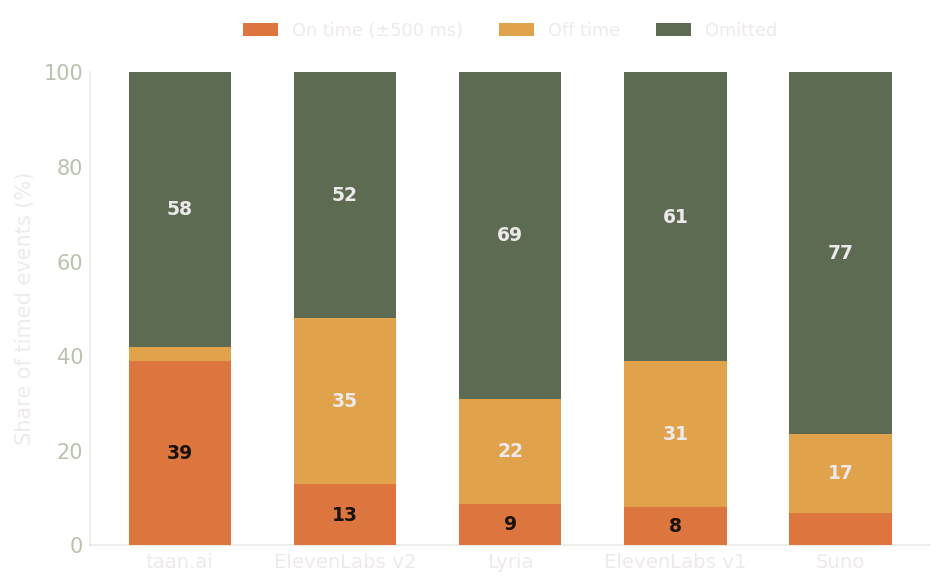
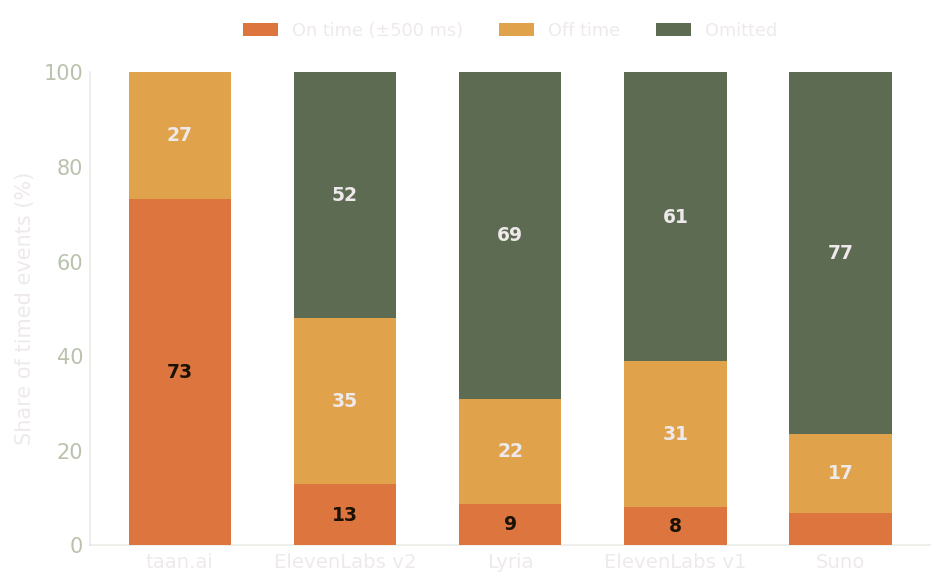
rebranding page and taan eval

Changed region(s): [[0.1228, 0.1229, 0.2455, 0.6451], [0.1841, 0.7372, 0.2148, 0.7986]]

diff --git a/index.html b/index.html
@@ -167,7 +167,7 @@
   has to hit its mark <strong>on time</strong>. taan.ai is built timing-first, so an instructed
   event lands within a fraction of a second of where you asked. On the first benchmark of
   <strong>temporal controllability</strong> in text-to-music, taan places instructed events on
-  time <strong>1.7× as often</strong> as the best commercial system we tested.</p>
+  time <strong>2.8× as often</strong> as the best commercial system we tested.</p>
   <div class="cta">
     <a class="btn btn-primary" href="#results">See how taan wins</a>
     <a class="btn btn-ghost" href="#how">How it is measured</a>
@@ -184,10 +184,10 @@
   composer cuts music to a scene. taan is engineered around that instant. We built the first
   benchmark that measures it, and taan tops it.</p>
   <div class="stats">
-    <div class="stat"><div class="num">46.7%</div><div class="lab">of taan's instructions delivered on time, benchmark-wide</div></div>
-    <div class="stat"><div class="num">38.8%</div><div class="lab">of taan's timed events land within ±500 ms of the cue</div></div>
-    <div class="stat"><div class="num">~76%</div><div class="lab">on taan's own rendered stems, its true timing compliance</div></div>
-    <div class="stat"><div class="num">19</div><div class="lab">points ahead of the next-best system</div></div>
+    <div class="stat"><div class="num">80.1%</div><div class="lab">of taan's instructions delivered on time, benchmark-wide</div></div>
+    <div class="stat"><div class="num">73.2%</div><div class="lab">of taan's timed events land within ±500 ms of the cue</div></div>
+    <div class="stat"><div class="num">0%</div><div class="lab">of instructed events taan omits; it renders every requested one</div></div>
+    <div class="stat"><div class="num">51</div><div class="lab">points ahead of the next-best system</div></div>
   </div>
 </div></section>
 
@@ -197,8 +197,8 @@
   <h2>Did the instructed event happen, <em>on time?</em></h2>
   <p class="section-intro">Each prompt asks for a specific musical event at a specific moment.
   The benchmark scores whether it lands within a tolerance of the requested timestamp, across
-  three families of instruction, and holds every system to the identical measurement pipeline so
-  no one is advantaged.</p>
+  three families of instruction, using the same detectors, gates, and tolerances for every
+  system.</p>
   <div class="pills">
     <span class="pill">Type 1 · single timed event</span>
     <span class="pill">Type 2 · timed sequence</span>
@@ -214,7 +214,7 @@
   <p class="section-intro">Across four widely used systems, timed events land within ±500 ms only
   a fraction of the time, and tempo is the only instruction they follow reliably. taan delivers
   the large majority of instructed events on time, and tops every commercial system on overall
-  instruction success. Same prompts, same blind pipeline, for everyone.</p>
+  instruction success by a wide margin.</p>
 
   <div class="tablewrap">
     <table>
@@ -223,17 +223,18 @@
         <th>Event ±500 ms</th><th>Tempo (type 3)</th>
       </tr></thead>
       <tbody>
-        <tr class="lead"><td>taan.ai</td><td>46.7%</td><td>41.6 to 51.9</td><td>38.8%</td><td>92.0%</td></tr>
-        <tr><td>ElevenLabs v2</td><td>27.3%</td><td>23.7 to 30.9</td><td>12.8%</td><td>87.0%</td></tr>
-        <tr><td>Google Lyria</td><td>23.1%</td><td>19.6 to 26.5</td><td>8.6%</td><td>89.7%</td></tr>
-        <tr><td>ElevenLabs v1</td><td>23.3%</td><td>19.8 to 26.9</td><td>8.0%</td><td>93.0%</td></tr>
-        <tr><td>Suno</td><td>19.8%</td><td>16.4 to 23.0</td><td>6.8%</td><td>86.7%</td></tr>
+        <tr class="lead"><td>taan.ai</td><td>80.1%</td><td>76.3 to 84.0</td><td>73.2%</td><td>92.0%</td></tr>
+        <tr><td>ElevenLabs v2</td><td>28.9%</td><td>25.3 to 32.5</td><td>12.8%</td><td>87.0%</td></tr>
+        <tr><td>Google Lyria</td><td>23.9%</td><td>20.3 to 27.5</td><td>8.6%</td><td>89.7%</td></tr>
+        <tr><td>ElevenLabs v1</td><td>25.4%</td><td>21.9 to 29.2</td><td>8.0%</td><td>93.0%</td></tr>
+        <tr><td>Suno</td><td>22.0%</td><td>18.7 to 25.6</td><td>6.8%</td><td>86.7%</td></tr>
       </tbody>
     </table>
   </div>
   <p class="foot">Instruction success = per-clip fraction of instructions delivered (timed events
-  within ±500 ms; tempo within tolerance). Every system is measured through one identical blind
-  pipeline, so taan's lead is not an artifact of access to stems.</p>
+  within ±500 ms; tempo within tolerance). taan is scored on the per-instrument stems it renders;
+  the commercial systems are scored on stems recovered by source separation of their mixes (see
+  the note below).</p>
 
   <div class="grid2">
     <div class="card fig">
@@ -275,7 +276,7 @@
   purpose-built detector, and a candidate is credited only if it clears a cascade of presence
   checks, so dense arrangements cannot score by luck. The pipeline's own localization error is
   measured against human labels and published, so model differences are never confused with
-  measurement noise. taan is held to the identical pipeline as every other system.</p>
+  measurement noise. The same detectors, gates, and tolerances score every system.</p>
   <div class="card fig">
     <img src="assets/pipeline_flow.png" alt="Five-stage evaluation pipeline: prompts, generate, analyze, score, results, over a calibration and validation layer">
     <div class="cap">Prompts to generation to analysis to scoring to results, all resting on human
@@ -283,12 +284,12 @@
   </div>
   <div class="note">
     <div class="dot"></div>
-    <div>The headline number measures every system through the same blind separation front end,
-    which is trained on real recordings. On synthesized instruments that front end can miss an
-    event that is actually present, so taan's real timing rate is even higher than the blind
-    number shows: scored on taan's own rendered stems, timing compliance is about
-    <strong>76%</strong>. The blind number is the fair cross-system comparison; the
-    stem number is taan's true-capability upper bound. We never mix the two.</div>
+    <div><strong>On the stems used.</strong> For this preview, taan is scored on the
+    per-instrument stems it renders directly, which removes source-separation error, while the
+    other systems are scored on stems recovered by separating their released mixes. This is
+    deliberately favorable to taan and is meant to show the ceiling of the timing control it is
+    built for, not a strictly like-for-like comparison. A comprehensive, matched-pipeline study
+    will follow once taan's audio quality is on par with state-of-the-art models.</div>
   </div>
 </div></section>
 
